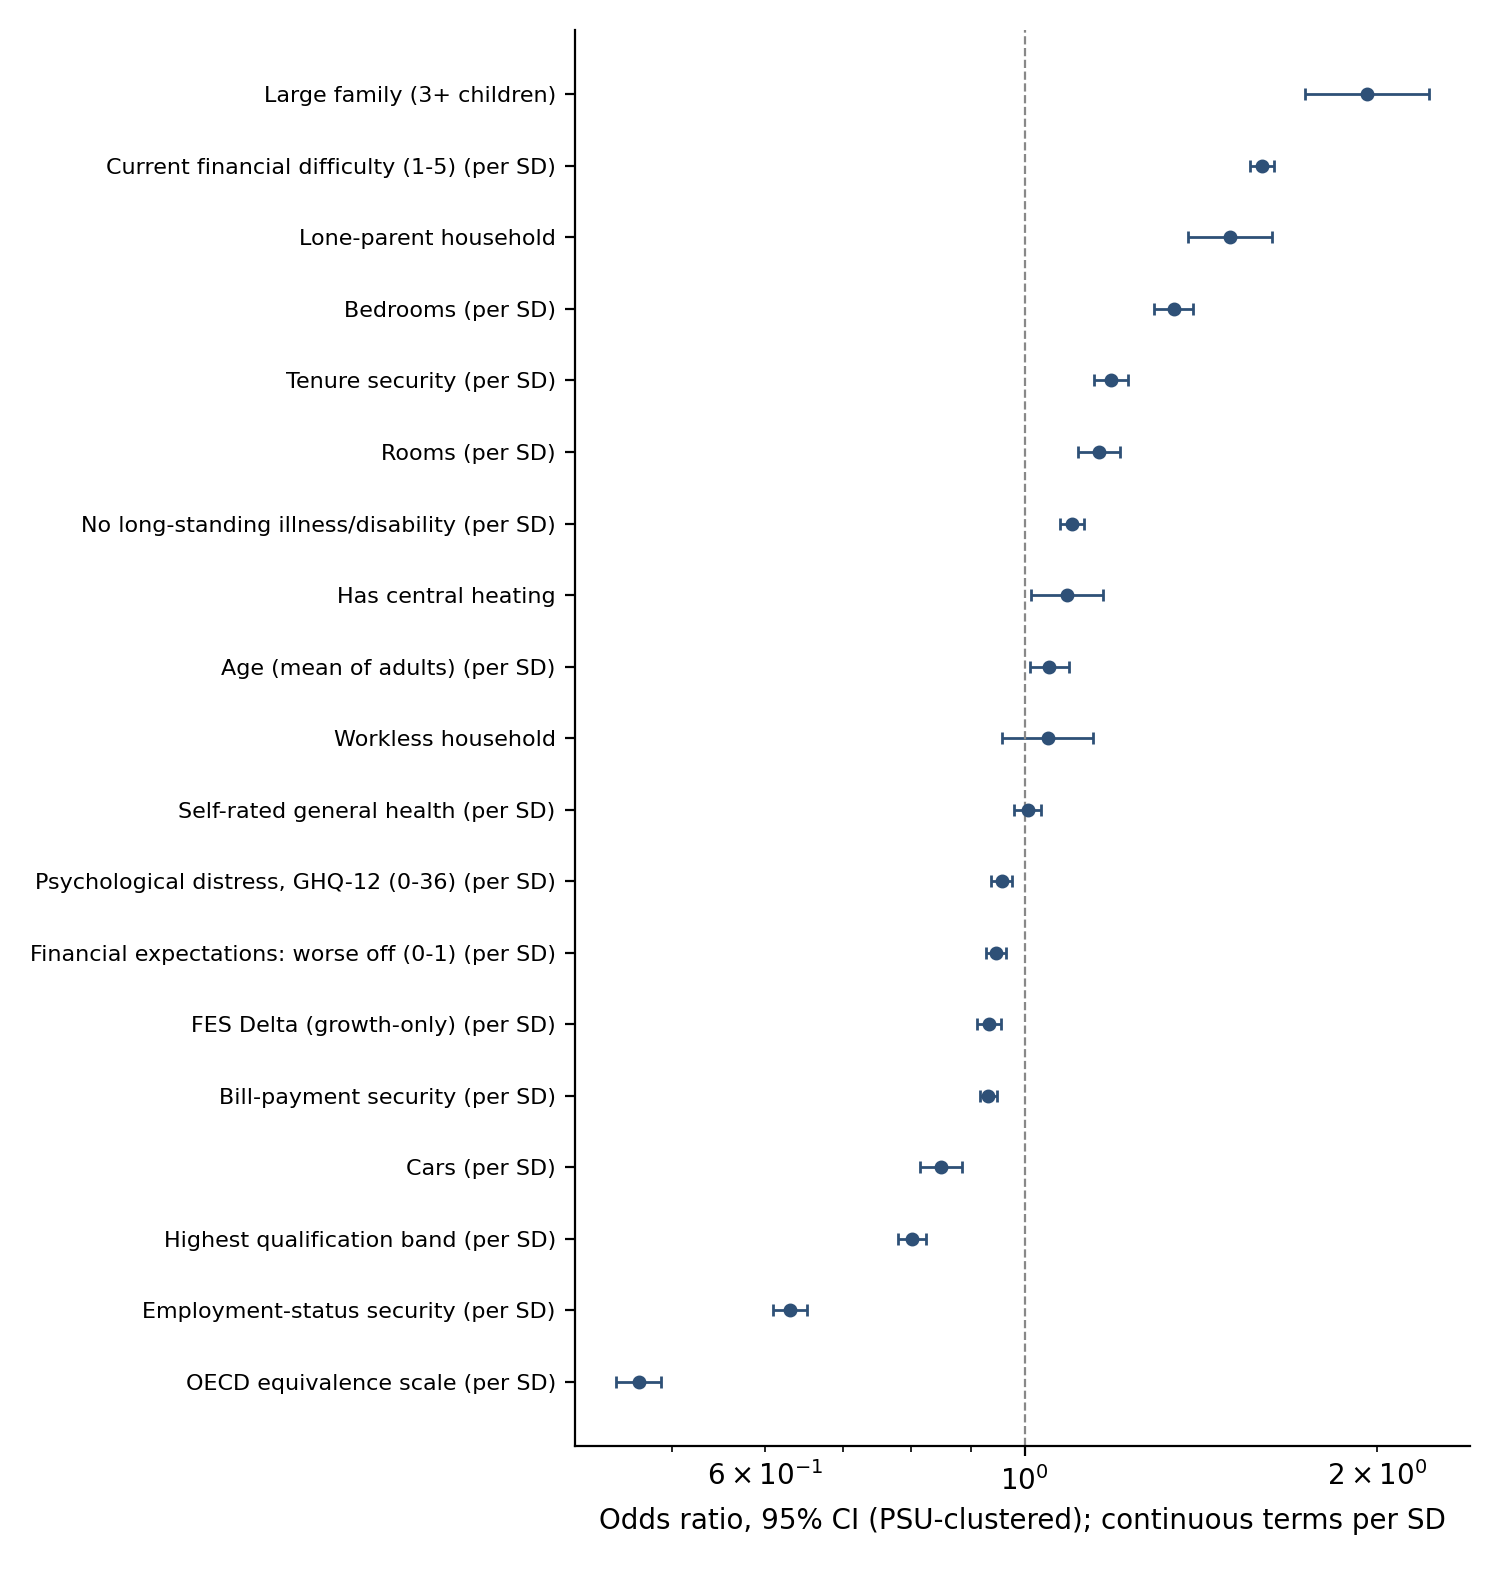
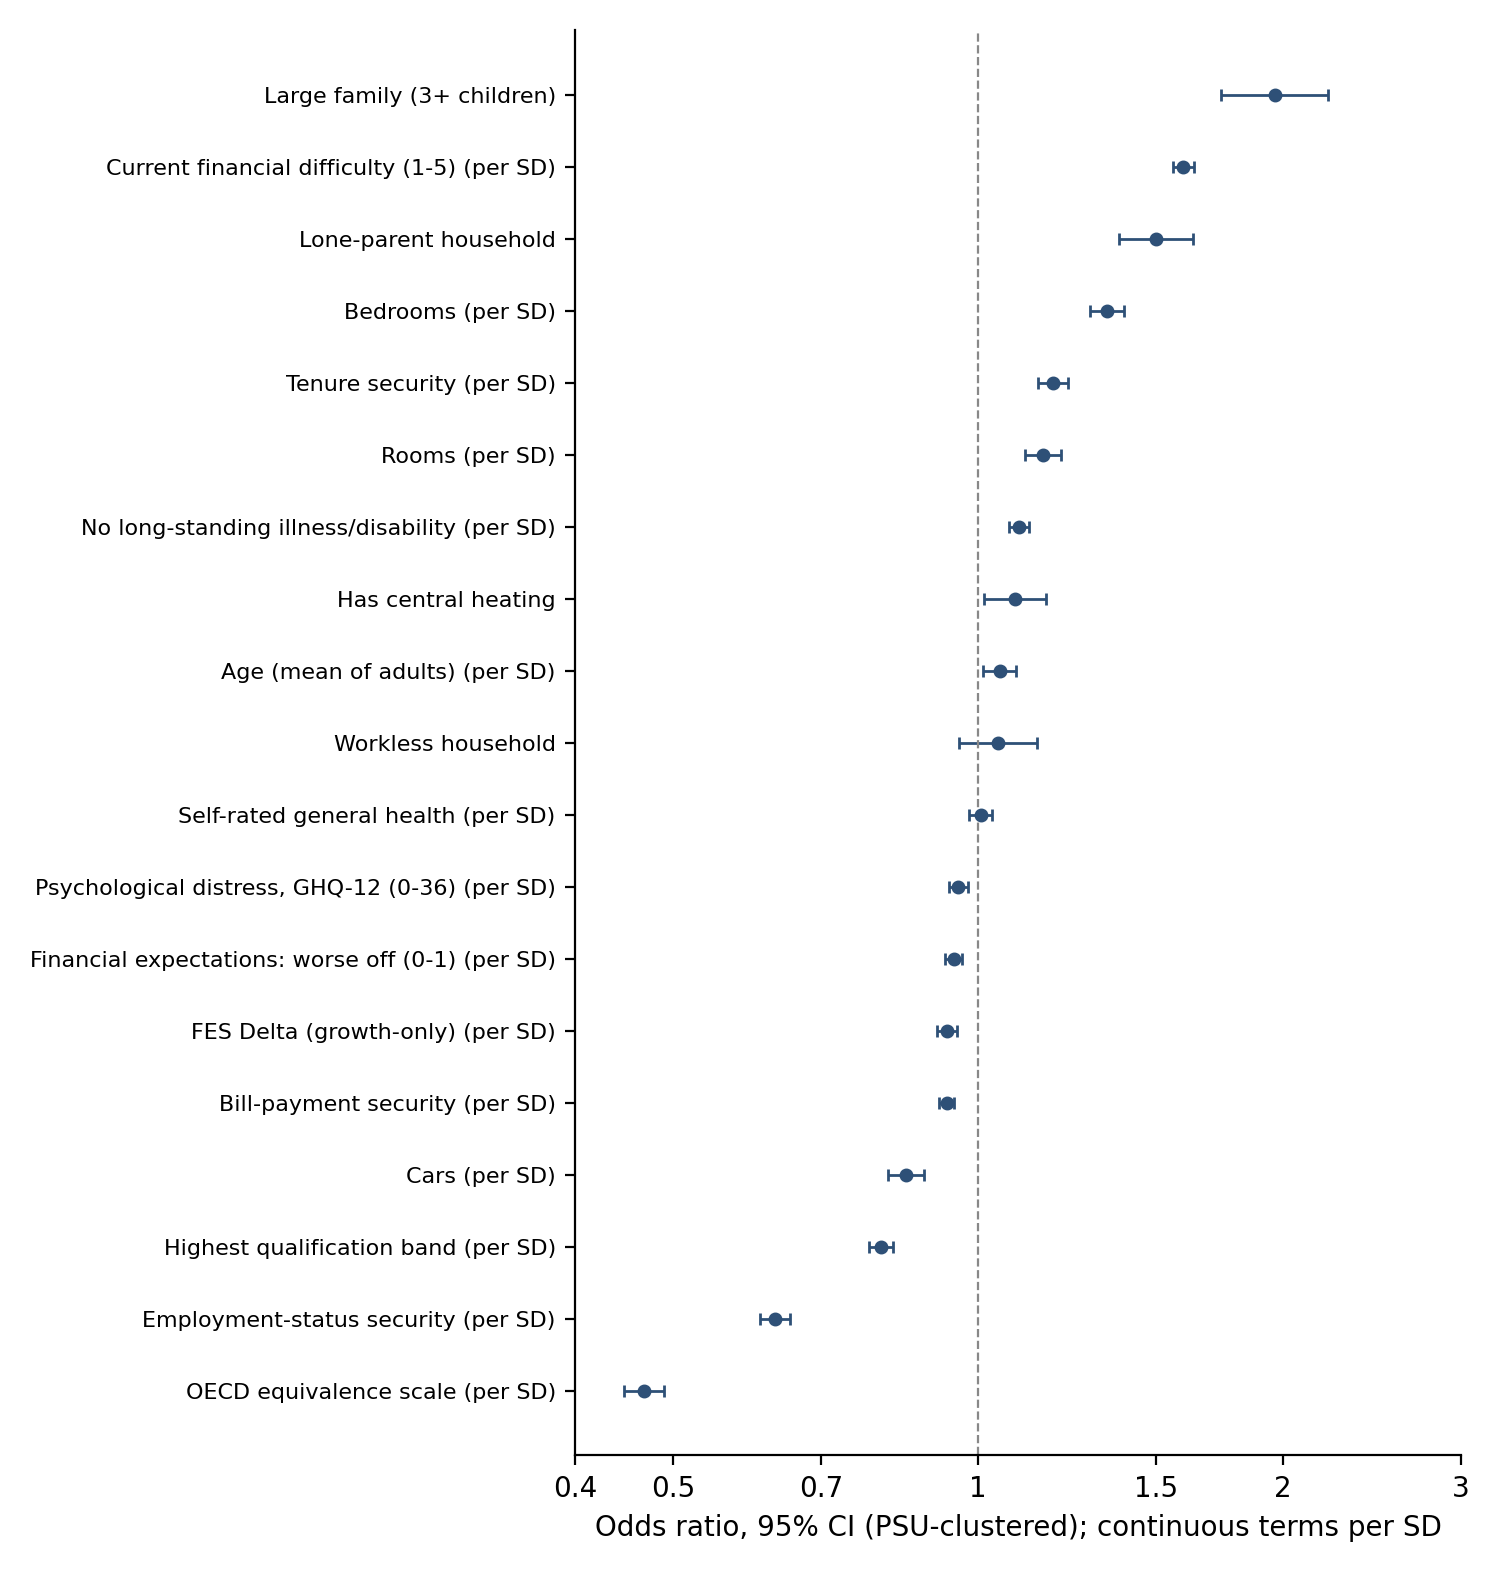
Stage 3: plain odds-ratio axis labels on forest plot

diff --git a/scripts/stage3_drivers.py b/scripts/stage3_drivers.py
@@ -184,7 +184,6 @@ def forest(coef: pd.DataFrame) -> None:
     d = coef[(coef.spec == "primary") & (coef.model == "main")].copy()
     d = d[~d.term.str.startswith("interview_year_")].sort_values("OR_per_sd", na_position="first")
     d["x"] = d.OR_per_sd.fillna(d.OR)
-    d["lo"] = np.where(d.OR_per_sd.notna(), np.exp(np.log(d.OR_ci_low) * d.sd_in_sample / 1), d.OR_ci_low)
     d["lo"] = np.where(d.OR_per_sd.notna(), np.exp(np.log(d.OR_ci_low) * d.sd_in_sample), d.OR_ci_low)
     d["hi"] = np.where(d.OR_per_sd.notna(), np.exp(np.log(d.OR_ci_high) * d.sd_in_sample), d.OR_ci_high)
     d = d.sort_values("x")
@@ -195,6 +194,10 @@ def forest(coef: pd.DataFrame) -> None:
     ax.set_yticks(yy)
     ax.set_yticklabels([f"{l}{' (per SD)' if pd.notna(s) else ''}" for l, s in zip(d.label, d.OR_per_sd)], fontsize=8)
     ax.set_xscale("log")
+    ticks = [0.4, 0.5, 0.7, 1, 1.5, 2, 3]
+    ax.set_xticks(ticks)
+    ax.set_xticklabels([f"{t:g}" for t in ticks])
+    ax.minorticks_off()
     ax.set_xlabel("Odds ratio, 95% CI (PSU-clustered); continuous terms per SD")
     ax.spines[["top", "right"]].set_visible(False)
     fig.tight_layout()
